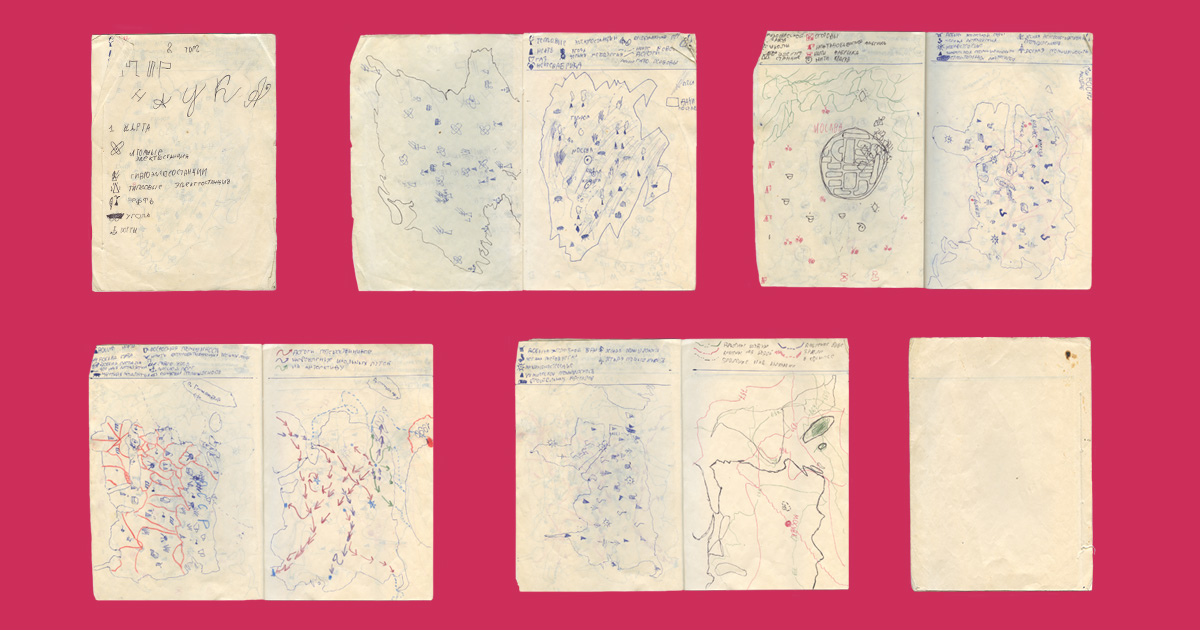
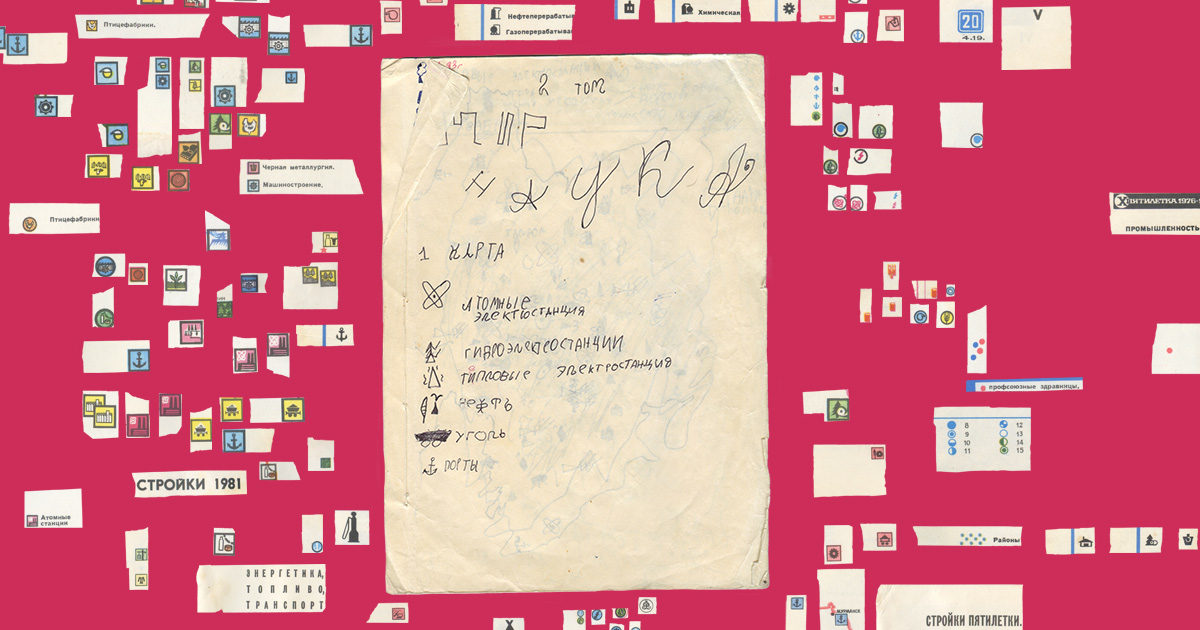
2 pages finished

diff --git a/content/world-science/index.php b/content/world-science/index.php
@@ -11,7 +11,39 @@ $keywords_en = 'world, science, atlas, map, industry';
 
 require $_SERVER['DOCUMENT_ROOT'].'/'.'includes/head.php';?>
 
-    <section style="margin-top:8rem;">
+    <section style="height:95rem;">
+
+        <div class="drag" style="left:2rem; top:3rem;"><img src="img/drag-1.png" srcset="img/drag-1@2x.png 2x"></div>
+        <div class="drag" style="right:-6rem; top:10rem;"><img src="img/drag-2.png" srcset="img/drag-2@2x.png 2x"></div>
+        <div class="drag" style="right:5rem; top:2rem;"><img src="img/drag-3.png" srcset="img/drag-3@2x.png 2x"></div>
+        <div class="drag" style="left:-8rem; top:13rem;"><img src="img/drag-4.png" srcset="img/drag-4@2x.png 2x"></div>
+        <div class="drag" style="right:0rem; top:17rem;"><img src="img/drag-5.png" srcset="img/drag-5@2x.png 2x"></div>
+        <div class="drag" style="left:10rem; top:23rem;"><img src="img/drag-6.png" srcset="img/drag-6@2x.png 2x"></div>
+        <div class="drag" style="right:-10rem; top:37rem;"><img src="img/drag-7.png" srcset="img/drag-7@2x.png 2x"></div>
+        <div class="drag" style="right:10rem; top:45rem;"><img src="img/drag-8.png" srcset="img/drag-8@2x.png 2x"></div>
+        <div class="drag" style="left:20rem; top:50rem;"><img src="img/drag-9.png" srcset="img/drag-9@2x.png 2x"></div>
+        <div class="drag" style="left:35rem; top:20rem;"><img src="img/drag-10.png" srcset="img/drag-10@2x.png 2x"></div>
+        <div class="drag" style="left:42rem; top:30rem;"><img src="img/drag-11.png" srcset="img/drag-11@2x.png 2x"></div>
+        <div class="drag" style="right:20rem; top:17rem;"><img src="img/drag-12.png" srcset="img/drag-12@2x.png 2x"></div>
+        <div class="drag" style="left:15rem; top:40rem;"><img src="img/drag-13.png" srcset="img/drag-13@2x.png 2x"></div>
+        <div class="drag" style="left:10rem; top:60rem;"><img src="img/drag-14.png" srcset="img/drag-14@2x.png 2x"></div>
+        <div class="drag" style="right:10rem; top:64rem;"><img src="img/drag-15.png" srcset="img/drag-15@2x.png 2x"></div>
+        <div class="drag" style="right:24rem; top:68rem;"><img src="img/drag-16.png" srcset="img/drag-16@2x.png 2x"></div>
+        <div class="drag" style="left:2rem; top:77rem;"><img src="img/drag-17.png" srcset="img/drag-17@2x.png 2x"></div>
+        <div class="drag" style="left:20rem; top:82rem;"><img src="img/drag-18.png" srcset="img/drag-18@2x.png 2x"></div>
+        <div class="drag" style="left:-2rem; top:78rem;"><img src="img/drag-19.png" srcset="img/drag-19@2x.png 2x"></div>
+        <div class="drag" style="right:8rem; top:79rem;"><img src="img/drag-20.png" srcset="img/drag-20@2x.png 2x"></div>
+
+    </section>
+
+    <section>
+
+        <div class="drag" style="right:8rem; top:10rem;"><img src="img/drag-21.png" srcset="img/drag-21@2x.png 2x"></div>
+        <div class="drag" style="right:2rem; top:30rem;"><img src="img/drag-22.png" srcset="img/drag-22@2x.png 2x"></div>
+        <div class="drag" style="left:15.5rem; top:44.5rem;"><img src="img/drag-23.png" srcset="img/drag-23@2x.png 2x"></div>
+        <div class="drag" style="right:22rem; top:37rem;"><img src="img/drag-24.png" srcset="img/drag-24@2x.png 2x"></div>
+        <div class="drag" style="left:5rem; top:42rem;"><img src="img/drag-25.png" srcset="img/drag-25@2x.png 2x"></div>
+        <div class="drag" style="right:8rem; top:46rem;"><img src="img/drag-26.png" srcset="img/drag-26@2x.png 2x"></div>
 
         <div class="center">
             <img src="img/world-science-0.jpg" srcset="img/world-science-0@2x.jpg 2x">
@@ -20,6 +52,16 @@ require $_SERVER['DOCUMENT_ROOT'].'/'.'includes/head.php';?>
     </section>
 
     <section class="text" style="margin-top:4rem;">
+
+        <div class="drag" style="left:3rem; top:20rem;"><img src="img/drag-27.png" srcset="img/drag-27@2x.png 2x"></div>
+        <div class="drag" style="left:1rem; top:10rem;"><img src="img/drag-28.png" srcset="img/drag-28@2x.png 2x"></div>
+        <div class="drag" style="left:21rem; top:3rem;"><img src="img/drag-29.png" srcset="img/drag-29@2x.png 2x"></div>
+        <div class="drag" style="left:-10rem; top:14rem;"><img src="img/drag-30.png" srcset="img/drag-30@2x.png 2x"></div>
+        <div class="drag" style="left:30rem; top:20rem;"><img src="img/drag-31.png" srcset="img/drag-31@2x.png 2x"></div>
+        <div class="drag" style="left:36rem; top:27rem;"><img src="img/drag-32.png" srcset="img/drag-32@2x.png 2x"></div>
+        <div class="drag" style="left:32rem; top:30rem;"><img src="img/drag-33.png" srcset="img/drag-33@2x.png 2x"></div>
+        <div class="drag" style="right:-4rem; top:18rem;"><img src="img/drag-34.png" srcset="img/drag-34@2x.png 2x"></div>
+        <div class="drag" style="right:5rem; top:22rem;"><img src="img/drag-35.png" srcset="img/drag-35@2x.png 2x"></div>
 
         <h2>
             <span lang="ru">Мир и наука — 2 том</span>
@@ -49,13 +91,22 @@ require $_SERVER['DOCUMENT_ROOT'].'/'.'includes/head.php';?>
 
     </section>
 
-    <section class="picture" style="margin-top:8rem;">
+    <section class="picture" style="margin-top:20rem;">
         <div class="center">
             <img src="img/world-science-1.jpg" srcset="img/world-science-1@2x.jpg 2x">
         </div>
     </section>
 
     <section class="text" style="margin-top:3rem;">
+        
+        <div class="drag" style="right:5rem; top:10rem;"><img src="img/drag-36.png" srcset="img/drag-36@2x.png 2x"></div>
+        <div class="drag" style="left:1rem; top:0rem;"><img src="img/drag-37.png" srcset="img/drag-37@2x.png 2x"></div>
+        <div class="drag" style="left:20rem; top:20rem;"><img src="img/drag-38.png" srcset="img/drag-38@2x.png 2x"></div>
+        <div class="drag" style="right:30rem; top:23rem;"><img src="img/drag-39.png" srcset="img/drag-39@2x.png 2x"></div>
+        <div class="drag" style="left:10rem; top:30rem;"><img src="img/drag-40.png" srcset="img/drag-40@2x.png 2x"></div>
+        <div class="drag" style="left:15rem; top:35rem;"><img src="img/drag-41.png" srcset="img/drag-41@2x.png 2x"></div>
+        <div class="drag" style="right:1rem; top:33rem;"><img src="img/drag-42.png" srcset="img/drag-42@2x.png 2x"></div>
+        <div class="drag" style="left:10rem; top:40rem;"><img src="img/drag-43.png" srcset="img/drag-43@2x.png 2x"></div>
 
         <ul lang="ru">
             <li>Тепловые электростанции</li>
@@ -92,6 +143,17 @@ require $_SERVER['DOCUMENT_ROOT'].'/'.'includes/head.php';?>
     </section>
 
     <section class="text" style="margin-top:3rem;">
+        
+        <div class="drag" style="left:10rem; top:40rem;"><img src="img/drag-44.png" srcset="img/drag-44@2x.png 2x"></div>
+        <div class="drag" style="left:3rem; top:2rem;"><img src="img/drag-45.png" srcset="img/drag-45@2x.png 2x"></div>
+        <div class="drag" style="right:5rem; top:10rem;"><img src="img/drag-46.png" srcset="img/drag-46@2x.png 2x"></div>
+        <div class="drag" style="right:-10rem; top:12rem;"><img src="img/drag-47.png" srcset="img/drag-47@2x.png 2x"></div>
+        <div class="drag" style="left:-6rem; top:17rem;"><img src="img/drag-48.png" srcset="img/drag-48@2x.png 2x"></div>
+        <div class="drag" style="right:10rem; top:26rem;"><img src="img/drag-49.png" srcset="img/drag-49@2x.png 2x"></div>
+        <div class="drag" style="left:22rem; top:33rem;"><img src="img/drag-50.png" srcset="img/drag-50@2x.png 2x"></div>
+        <div class="drag" style="left:5rem; top:31rem;"><img src="img/drag-51.png" srcset="img/drag-51@2x.png 2x"></div>
+        <div class="drag" style="right:10rem; top:28rem;"><img src="img/drag-52.png" srcset="img/drag-52@2x.png 2x"></div>
+        <div class="drag" style="right:3rem; top:29rem;"><img src="img/drag-53.png" srcset="img/drag-53@2x.png 2x"></div>
 
         <ul lang="ru">
             <li>Механический завод</li>
@@ -147,6 +209,24 @@ require $_SERVER['DOCUMENT_ROOT'].'/'.'includes/head.php';?>
     </section>
 
     <section class="text" style="margin-top:3.5rem;">
+        
+        <div class="drag" style="right:3rem; top:2rem;"><img src="img/drag-54.png" srcset="img/drag-54@2x.png 2x"></div>
+        <div class="drag" style="left:3rem; top:7rem;"><img src="img/drag-55.png" srcset="img/drag-55@2x.png 2x"></div>
+        <div class="drag" style="right:10rem; top:20rem;"><img src="img/drag-56.png" srcset="img/drag-56@2x.png 2x"></div>
+        <div class="drag" style="right:11rem; top:18rem;"><img src="img/drag-57.png" srcset="img/drag-57@2x.png 2x"></div>
+        <div class="drag" style="right:33rem; top:10rem;"><img src="img/drag-58.png" srcset="img/drag-58@2x.png 2x"></div>
+        <div class="drag" style="left:10rem; top:27rem;"><img src="img/drag-59.png" srcset="img/drag-59@2x.png 2x"></div>
+        <div class="drag" style="right:20rem; top:29rem;"><img src="img/drag-60.png" srcset="img/drag-60@2x.png 2x"></div>
+        <div class="drag" style="right:2rem; top:28rem;"><img src="img/drag-61.png" srcset="img/drag-61@2x.png 2x"></div>
+        <div class="drag" style="left:12rem; top:35rem;"><img src="img/drag-62.png" srcset="img/drag-62@2x.png 2x"></div>
+        <div class="drag" style="left:13rem; top:38rem;"><img src="img/drag-63.png" srcset="img/drag-63@2x.png 2x"></div>
+        <div class="drag" style="right:22rem; top:40rem;"><img src="img/drag-64.png" srcset="img/drag-64@2x.png 2x"></div>
+        <div class="drag" style="left:-10rem; top:45rem;"><img src="img/drag-65.png" srcset="img/drag-65@2x.png 2x"></div>
+        <div class="drag" style="left:1rem; top:47rem;"><img src="img/drag-66.png" srcset="img/drag-66@2x.png 2x"></div>
+        <div class="drag" style="right:3rem; top:50rem;"><img src="img/drag-67.png" srcset="img/drag-67@2x.png 2x"></div>
+        <div class="drag" style="right:20rem; top:52rem;"><img src="img/drag-68.png" srcset="img/drag-68@2x.png 2x"></div>
+        <div class="drag" style="right:10rem; top:51rem;"><img src="img/drag-69.png" srcset="img/drag-69@2x.png 2x"></div>
+        <div class="drag" style="left:20rem; top:53rem;"><img src="img/drag-70.png" srcset="img/drag-70@2x.png 2x"></div>
 
         <ul lang="ru">
             <li>Добыча нефти</li>
@@ -193,6 +273,27 @@ require $_SERVER['DOCUMENT_ROOT'].'/'.'includes/head.php';?>
     </section>
 
     <section class="text" style="margin-top:3.5rem;">
+        
+        <div class="drag" style="left:2rem; top:1rem;"><img src="img/drag-71.png" srcset="img/drag-71@2x.png 2x"></div>
+        <div class="drag" style="left:-15rem; top:10rem;"><img src="img/drag-72.png" srcset="img/drag-72@2x.png 2x"></div>
+        <div class="drag" style="right:-5rem; top:5rem;"><img src="img/drag-73.png" srcset="img/drag-73@2x.png 2x"></div>
+        <div class="drag" style="left:-10rem; top:20rem;"><img src="img/drag-74.png" srcset="img/drag-74@2x.png 2x"></div>
+        <div class="drag" style="left:12rem; top:18rem;"><img src="img/drag-75.png" srcset="img/drag-75@2x.png 2x"></div>
+        <div class="drag" style="left:20rem; top:25rem;"><img src="img/drag-76.png" srcset="img/drag-76@2x.png 2x"></div>
+        <div class="drag" style="left:37rem; top:29rem;"><img src="img/drag-77.png" srcset="img/drag-77@2x.png 2x"></div>
+        <div class="drag" style="right:20rem; top:35rem;"><img src="img/drag-78.png" srcset="img/drag-78@2x.png 2x"></div>
+        <div class="drag" style="left:1rem; top:40rem;"><img src="img/drag-79.png" srcset="img/drag-79@2x.png 2x"></div>
+        <div class="drag" style="left:5rem; top:43rem;"><img src="img/drag-80.png" srcset="img/drag-80@2x.png 2x"></div>
+        <div class="drag" style="left:10rem; top:60rem;"><img src="img/drag-81.png" srcset="img/drag-81@2x.png 2x"></div>
+        <div class="drag" style="right:25rem; top:65rem;"><img src="img/drag-82.png" srcset="img/drag-82@2x.png 2x"></div>
+        <div class="drag" style="right:1rem; top:66rem;"><img src="img/drag-83.png" srcset="img/drag-83@2x.png 2x"></div>
+        <div class="drag" style="right:-10rem; top:57rem;"><img src="img/drag-84.png" srcset="img/drag-84@2x.png 2x"></div>
+        <div class="drag" style="right:5rem; top:65rem;"><img src="img/drag-85.png" srcset="img/drag-85@2x.png 2x"></div>
+        <div class="drag" style="left:25rem; top:1rem;"><img src="img/drag-86.png" srcset="img/drag-86@2x.png 2x"></div>
+        <div class="drag" style="right:30rem; top:70rem;"><img src="img/drag-87.png" srcset="img/drag-87@2x.png 2x"></div>
+        <div class="drag" style="left:25rem; top:74rem;"><img src="img/drag-88.png" srcset="img/drag-88@2x.png 2x"></div>
+        <div class="drag" style="right:20rem; top:75rem;"><img src="img/drag-89.png" srcset="img/drag-89@2x.png 2x"></div>
+        <div class="drag" style="right:10rem; top:80rem;"><img src="img/drag-90.png" srcset="img/drag-90@2x.png 2x"></div>
 
         <ul lang="ru">
             <li>Добыча железной руды</li>
@@ -203,7 +304,7 @@ require $_SERVER['DOCUMENT_ROOT'].'/'.'includes/head.php';?>
             <li>Лесная промышленность</li>
             <li>Легкая промышленность</li>
         </ul>
-           
+
         <ul lang="en">
             <li>Iron ore mining</li>
             <li>Ferrous metallurgy</li>
@@ -226,7 +327,7 @@ require $_SERVER['DOCUMENT_ROOT'].'/'.'includes/head.php';?>
             <li>Выше земли</li>
             <li>В космосе</li>
         </ul>
-           
+
         <ul lang="en">
             <li>Air</li>
             <li>Underwater</li>
@@ -236,16 +337,49 @@ require $_SERVER['DOCUMENT_ROOT'].'/'.'includes/head.php';?>
         </ul>
 
     </section>
-    
-    <section class="picture" style="margin-top:8rem;">
+
+    <section class="picture" style="margin-top:8rem; height:65rem;">
+       
+       <div class="drag" style="right:10rem; top:30rem;"><img src="img/drag-91.png" srcset="img/drag-91@2x.png 2x"></div>
+       <div class="drag" style="right:5rem; top:40rem;"><img src="img/drag-92.png" srcset="img/drag-92@2x.png 2x"></div>
+       <div class="drag" style="left:5rem; top:50rem;"><img src="img/drag-93.png" srcset="img/drag-93@2x.png 2x"></div>
+       <div class="drag" style="left:3rem; top:37rem;"><img src="img/drag-94.png" srcset="img/drag-94@2x.png 2x"></div>
+       <div class="drag" style="left:-8rem; top:38rem;"><img src="img/drag-95.png" srcset="img/drag-95@2x.png 2x"></div>
+       <div class="drag" style="right:20rem; top:40rem;"><img src="img/drag-96.png" srcset="img/drag-96@2x.png 2x"></div>
+       <div class="drag" style="right:-15rem; top:38rem;"><img src="img/drag-97.png" srcset="img/drag-97@2x.png 2x"></div>
+       <div class="drag" style="right:20rem; top:60rem;"><img src="img/drag-98.png" srcset="img/drag-98@2x.png 2x"></div>
+       <div class="drag" style="right:21rem; top:52rem;"><img src="img/drag-99.png" srcset="img/drag-99@2x.png 2x"></div>
+       <div class="drag" style="left:18rem; top:53rem;"><img src="img/drag-100.png" srcset="img/drag-100@2x.png 2x"></div>
+       
         <div class="center">
             <img src="img/world-science-5.jpg" srcset="img/world-science-5@2x.jpg 2x">
         </div>
     </section>
-    
-    <section style="margin:8rem auto 12rem;">
+
+    <section style="margin-top:8rem; height:150rem;">
+       
+       <div class="drag" style="left:18rem; top:0rem;"><img src="img/drag-101.png" srcset="img/drag-101@2x.png 2x"></div>
+       <div class="drag" style="right:10rem; top:5rem;"><img src="img/drag-102.png" srcset="img/drag-102@2x.png 2x"></div>
+       <div class="drag" style="left:2rem; top:10rem;"><img src="img/drag-103.png" srcset="img/drag-103@2x.png 2x"></div>
+       <div class="drag" style="right:-6rem; top:17rem;"><img src="img/drag-104.png" srcset="img/drag-104@2x.png 2x"></div>
+       <div class="drag" style="right:25rem; top:20rem;"><img src="img/drag-105.png" srcset="img/drag-105@2x.png 2x"></div>
+       <div class="drag" style="left:20rem; top:41rem;"><img src="img/drag-106.png" srcset="img/drag-106@2x.png 2x"></div>
+       <div class="drag" style="left:-10rem; top:43rem;"><img src="img/drag-107.png" srcset="img/drag-107@2x.png 2x"></div>
+       <div class="drag" style="right:18rem; top:53rem;"><img src="img/drag-108.png" srcset="img/drag-108@2x.png 2x"></div>
+       <div class="drag" style="left:18rem; top:65rem;"><img src="img/drag-109.png" srcset="img/drag-109@2x.png 2x"></div>
+       <div class="drag" style="right:25rem; top:68rem;"><img src="img/drag-110.png" srcset="img/drag-110@2x.png 2x"></div>
+       <div class="drag" style="left:20rem; top:79rem;"><img src="img/drag-111.png" srcset="img/drag-111@2x.png 2x"></div>
+       <div class="drag" style="left:8rem; top:86rem;"><img src="img/drag-112.png" srcset="img/drag-112@2x.png 2x"></div>
+       <div class="drag" style="left:2rem; top:90rem;"><img src="img/drag-113.png" srcset="img/drag-113@2x.png 2x"></div>
+       <div class="drag" style="right:26rem; top:97rem;"><img src="img/drag-114.png" srcset="img/drag-114@2x.png 2x"></div>
+       <div class="drag" style="left:1rem; top:99rem;"><img src="img/drag-115.png" srcset="img/drag-115@2x.png 2x"></div>
+       <div class="drag" style="left:16rem; top:100rem;"><img src="img/drag-116.png" srcset="img/drag-116@2x.png 2x"></div>
+       <div class="drag" style="right:10rem; top:98rem;"><img src="img/drag-117.png" srcset="img/drag-117@2x.png 2x"></div>
+       <div class="drag" style="left:18rem; top:115rem;"><img src="img/drag-118.png" srcset="img/drag-118@2x.png 2x"></div>
+       <div class="drag" style="right:18rem; top:118rem;"><img src="img/drag-119.png" srcset="img/drag-119@2x.png 2x"></div>
+       
         <div class="center">
-        <img src="img/world-science-6.jpg" srcset="img/world-science-6@2x.jpg 2x">
+            <img src="img/world-science-6.jpg" srcset="img/world-science-6@2x.jpg 2x">
         </div>
     </section>
 

diff --git a/content/science-and-laif/index.php b/content/science-and-laif/index.php
@@ -241,8 +241,40 @@ require $_SERVER['DOCUMENT_ROOT'].'/'.'includes/head.php';?>
         </ol>
 
     </section>
+    
+    <section style="height:260rem;">
+        
+        <div class="drag" style="left:5rem; top:1rem;"><img src="img/drag-1.png" srcset="img/drag-1@2x.png 2x"></div>
+        <div class="drag" style="left:15rem; top:-9rem;"><img src="img/drag-2.png" srcset="img/drag-2@2x.png 2x"></div>
+        <div class="drag" style="right:3rem; top:10rem;"><img src="img/drag-3.png" srcset="img/drag-3@2x.png 2x"></div>
+        <div class="drag" style="right:-7rem; top:18rem;"><img src="img/drag-4.png" srcset="img/drag-4@2x.png 2x"></div>
+        <div class="drag" style="right:10rem; top:27rem;"><img src="img/drag-5.png" srcset="img/drag-5@2x.png 2x"></div>
+        <div class="drag" style="left:10rem; top:35rem;"><img src="img/drag-6.png" srcset="img/drag-6@2x.png 2x"></div>
+        <div class="drag" style="left:-10rem; top:38rem;"><img src="img/drag-7.png" srcset="img/drag-7@2x.png 2x"></div>
+        <div class="drag" style="right:10rem; top:60rem;"><img src="img/drag-8.png" srcset="img/drag-8@2x.png 2x"></div>
+        <div class="drag" style="right:20rem; top:69rem;"><img src="img/drag-9.png" srcset="img/drag-9@2x.png 2x"></div>
+        <div class="drag" style="left:5rem; top:78rem;"><img src="img/drag-10.png" srcset="img/drag-10@2x.png 2x"></div>
+        <div class="drag" style="right:20rem; top:80rem;"><img src="img/drag-11.png" srcset="img/drag-11@2x.png 2x"></div>
+        <div class="drag" style="right:6rem; top:110rem;"><img src="img/drag-12.png" srcset="img/drag-12@2x.png 2x"></div>
+        <div class="drag" style="right:-7rem; top:115rem;"><img src="img/drag-13.png" srcset="img/drag-13@2x.png 2x"></div>
+        <div class="drag" style="left:18rem; top:128rem;"><img src="img/drag-14.png" srcset="img/drag-14@2x.png 2x"></div>
+        <div class="drag" style="left:19rem; top:129rem;"><img src="img/drag-15.png" srcset="img/drag-15@2x.png 2x"></div>
+        <div class="drag" style="right:2rem; top:140rem;"><img src="img/drag-16.png" srcset="img/drag-16@2x.png 2x"></div>
+        <div class="drag" style="right:3rem; top:140.5rem;"><img src="img/drag-17.png" srcset="img/drag-17@2x.png 2x"></div>
+        <div class="drag" style="right:10rem; top:160rem;"><img src="img/drag-18.png" srcset="img/drag-18@2x.png 2x"></div>
+        <div class="drag" style="left:3rem; top:162rem;"><img src="img/drag-19.png" srcset="img/drag-19@2x.png 2x"></div>
+        <div class="drag" style="right:20rem; top:180rem;"><img src="img/drag-20.png" srcset="img/drag-20@2x.png 2x"></div>
+        <div class="drag" style="right:5rem; top:182rem;"><img src="img/drag-21.png" srcset="img/drag-21@2x.png 2x"></div>
+        <div class="drag" style="left:2rem; top:181rem;"><img src="img/drag-22.png" srcset="img/drag-22@2x.png 2x"></div>
+        <div class="drag" style="right:3rem; top:195rem;"><img src="img/drag-23.png" srcset="img/drag-23@2x.png 2x"></div>
+        <div class="drag" style="right:25rem; top:200rem;"><img src="img/drag-24.png" srcset="img/drag-24@2x.png 2x"></div>
+        <div class="drag" style="right:-8rem; top:209rem;"><img src="img/drag-25.png" srcset="img/drag-25@2x.png 2x"></div>
+        <div class="drag" style="left:-3rem; top:210rem;"><img src="img/drag-26.png" srcset="img/drag-26@2x.png 2x"></div>
+        <div class="drag" style="right:23rem; top:240rem;"><img src="img/drag-27.png" srcset="img/drag-27@2x.png 2x"></div>
+        
+    </section>
 
-    <section style="margin-top:8rem;">
+    <section>
 
         <div class="center">
             <img src="img/science-and-life-6.jpg" srcset="img/science-and-life-6@2x.jpg 2x">
